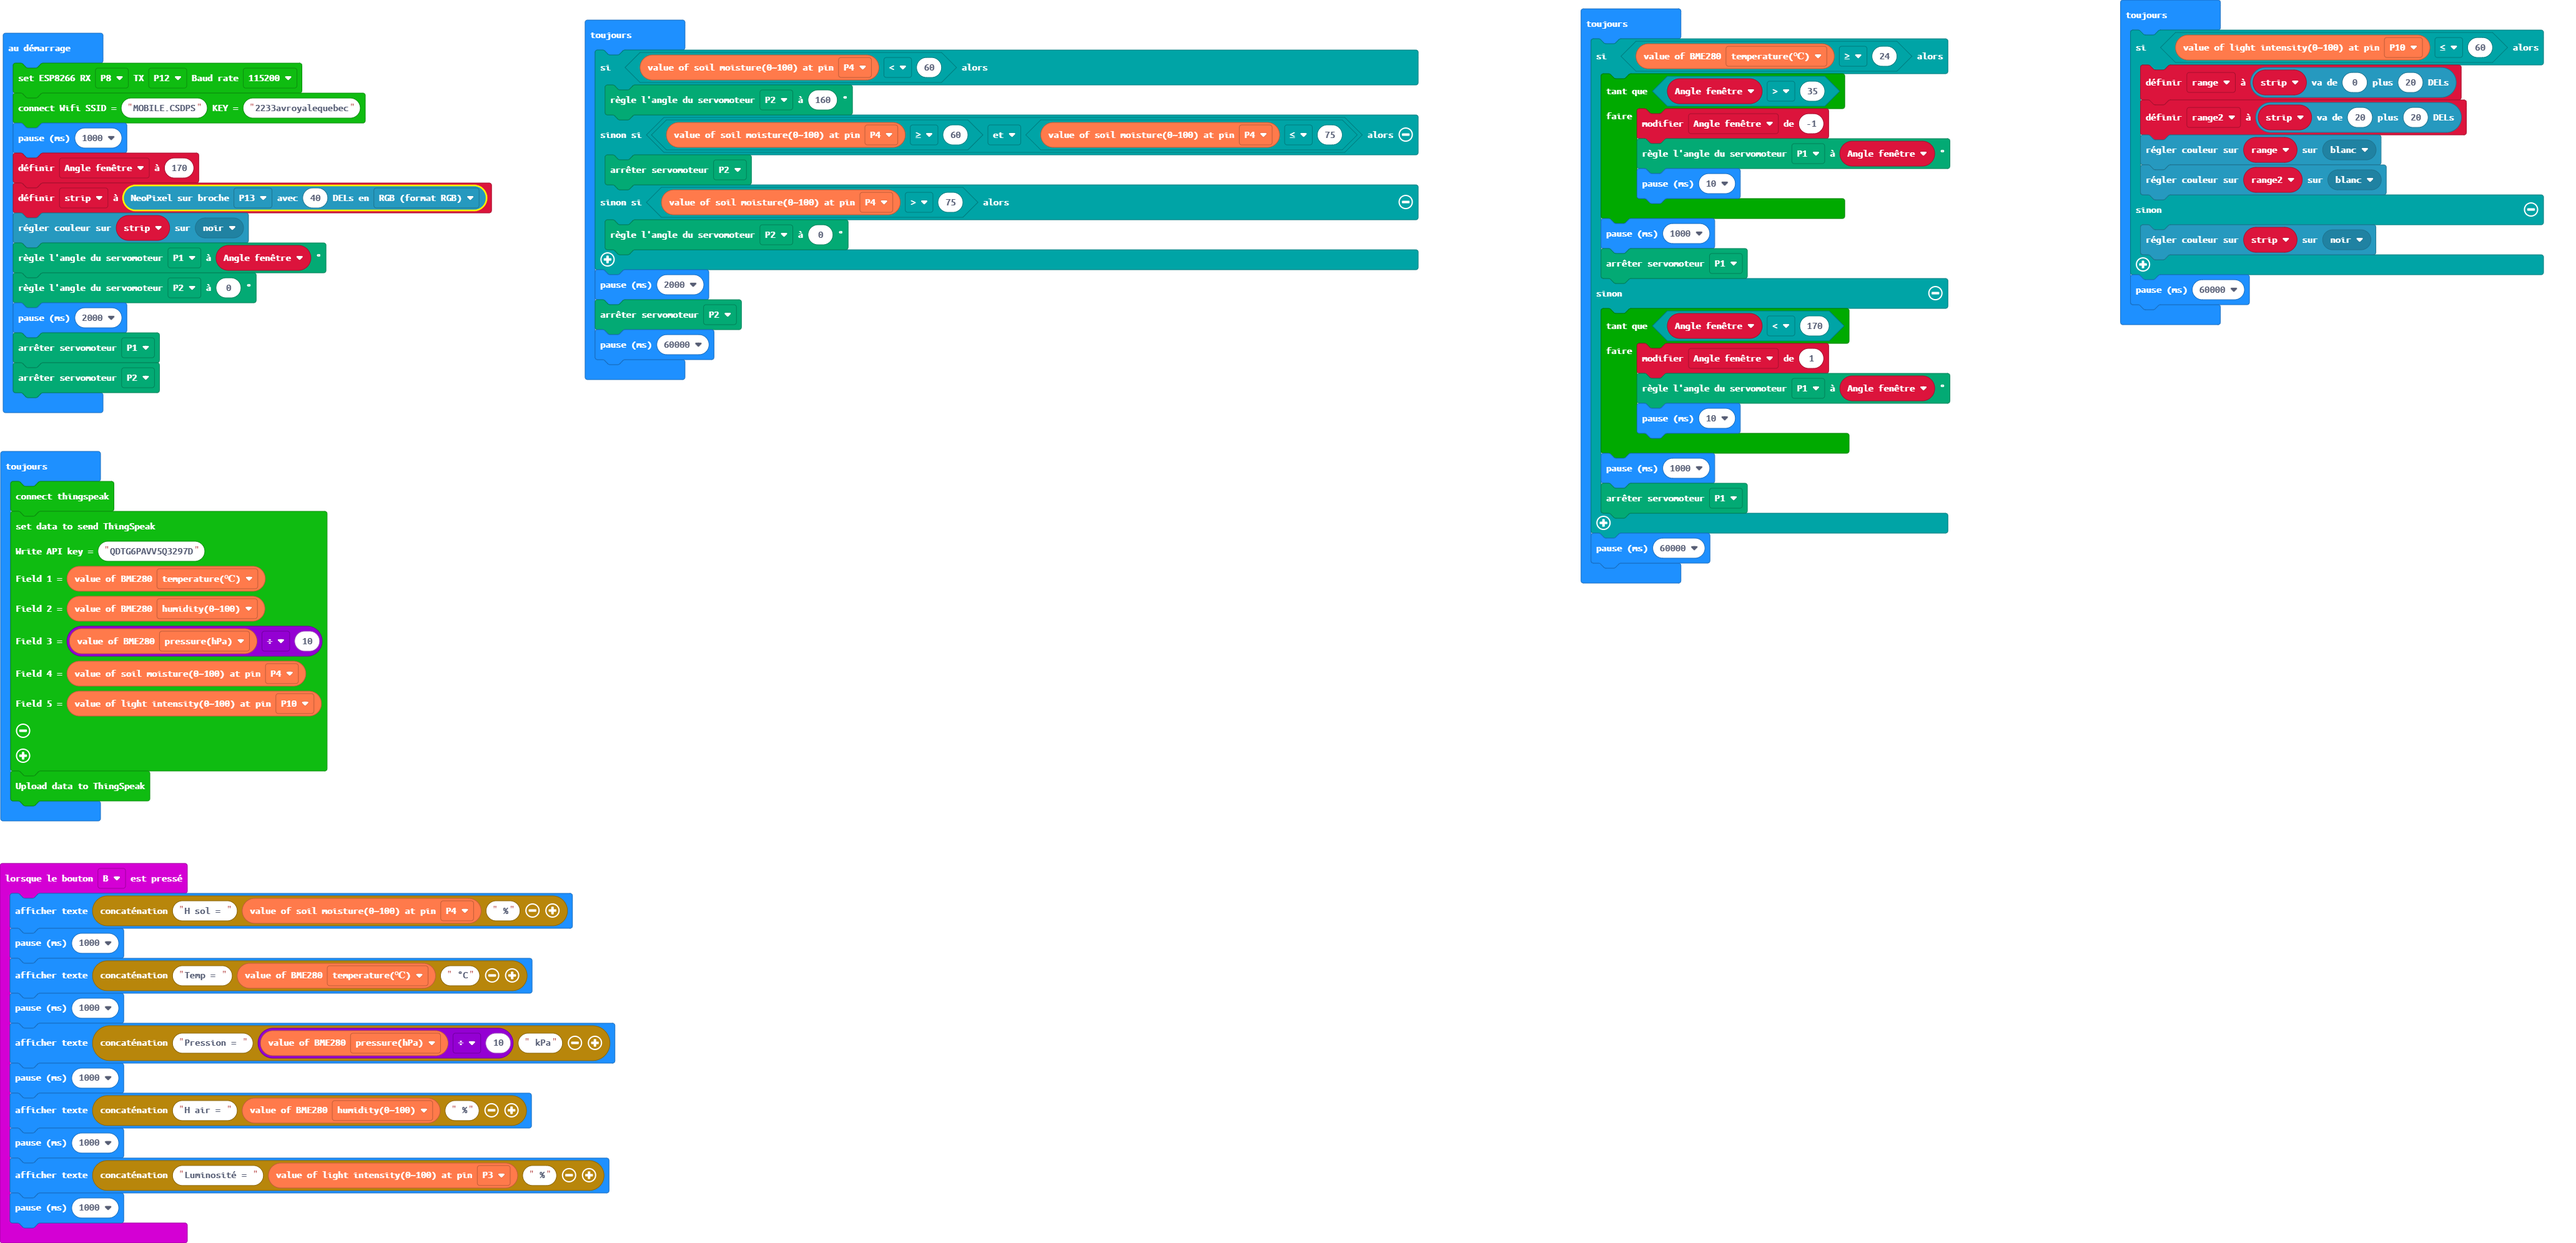
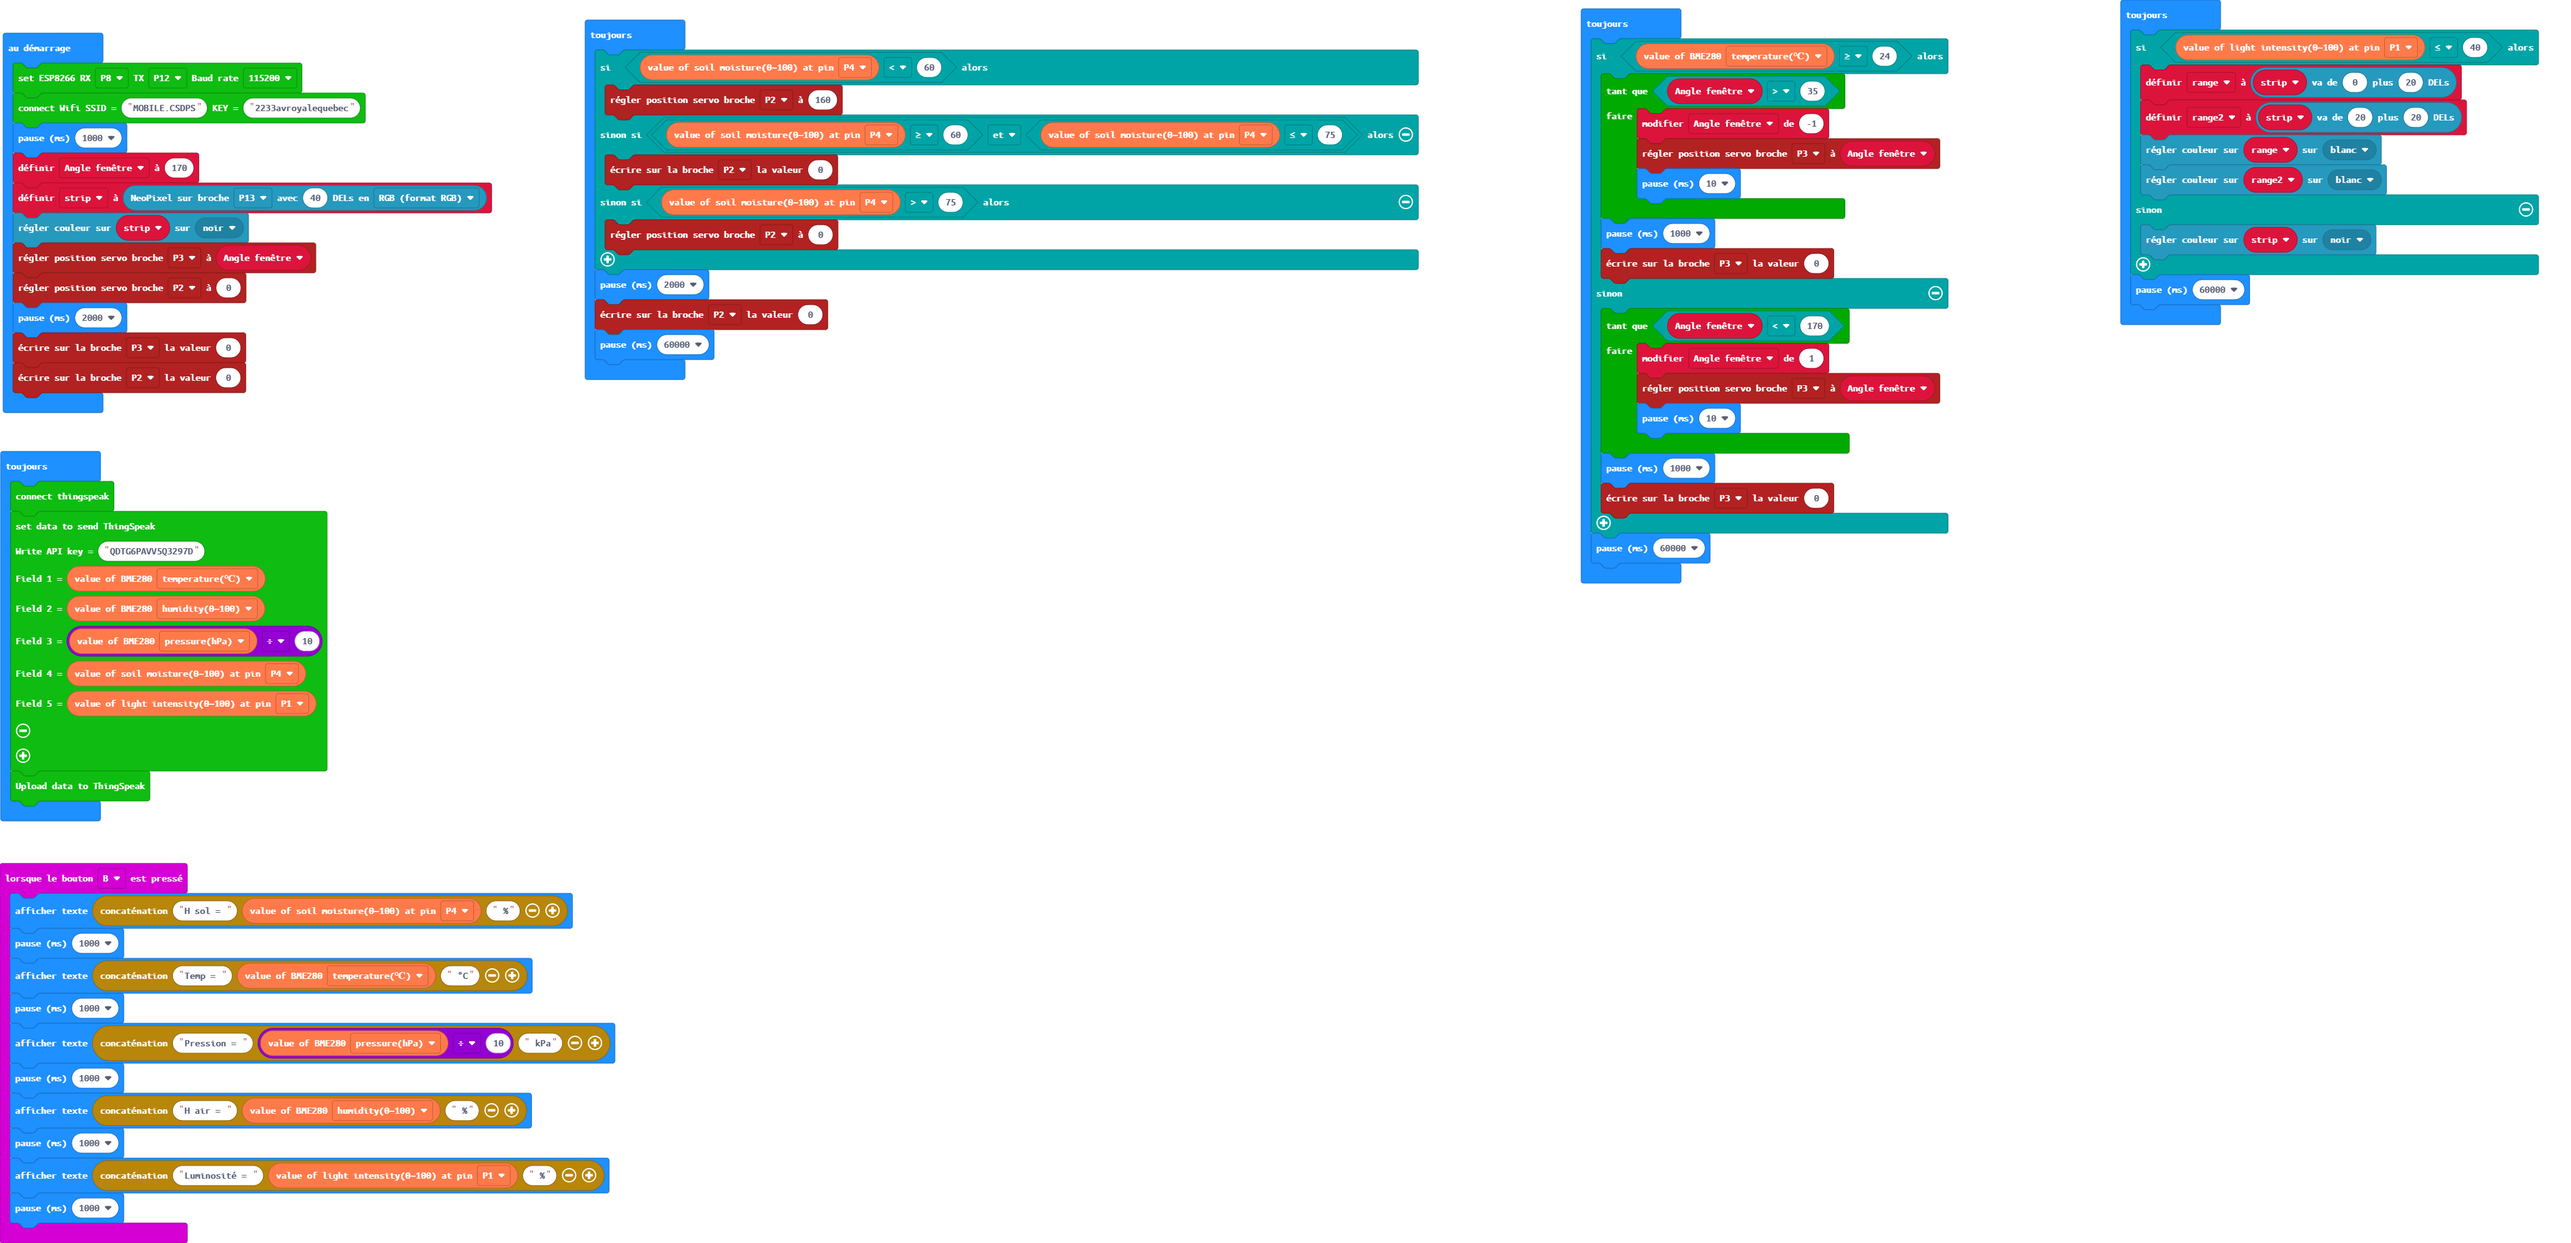
Mise à jour main.blocks, main.ts

diff --git a/main.ts b/main.ts
@@ -7,7 +7,7 @@ input.onButtonPressed(Button.B, function () {
     basic.pause(1000)
     basic.showString("H air = " + Environment.octopus_BME280(Environment.BME280_state.BME280_humidity) + " %")
     basic.pause(1000)
-    basic.showString("Luminosité = " + Environment.ReadLightIntensity(AnalogPin.P3) + " %")
+    basic.showString("Luminosité = " + Environment.ReadLightIntensity(AnalogPin.P1) + " %")
     basic.pause(1000)
 })
 let range2: neopixel.Strip = null
@@ -18,45 +18,45 @@ basic.pause(1000)
 let Angle_fenêtre = 170
 let strip = neopixel.create(DigitalPin.P13, 40, NeoPixelMode.RGB)
 strip.showColor(neopixel.colors(NeoPixelColors.Black))
-servos.P1.setAngle(Angle_fenêtre)
-servos.P2.setAngle(0)
+pins.servoWritePin(AnalogPin.P3, Angle_fenêtre)
+pins.servoWritePin(AnalogPin.P2, 0)
 basic.pause(2000)
-servos.P1.stop()
-servos.P2.stop()
+pins.digitalWritePin(DigitalPin.P3, 0)
+pins.digitalWritePin(DigitalPin.P2, 0)
 basic.forever(function () {
     if (Environment.ReadSoilHumidity(AnalogPin.P4) < 60) {
-        servos.P2.setAngle(160)
+        pins.servoWritePin(AnalogPin.P2, 160)
     } else if (Environment.ReadSoilHumidity(AnalogPin.P4) >= 60 && Environment.ReadSoilHumidity(AnalogPin.P4) <= 75) {
-        servos.P2.stop()
+        pins.digitalWritePin(DigitalPin.P2, 0)
     } else if (Environment.ReadSoilHumidity(AnalogPin.P4) > 75) {
-        servos.P2.setAngle(0)
+        pins.servoWritePin(AnalogPin.P2, 0)
     }
     basic.pause(2000)
-    servos.P2.stop()
+    pins.digitalWritePin(DigitalPin.P2, 0)
     basic.pause(60000)
 })
 basic.forever(function () {
     if (Environment.octopus_BME280(Environment.BME280_state.BME280_temperature_C) >= 24) {
         while (Angle_fenêtre > 35) {
             Angle_fenêtre += -1
-            servos.P1.setAngle(Angle_fenêtre)
+            pins.servoWritePin(AnalogPin.P3, Angle_fenêtre)
             basic.pause(10)
         }
         basic.pause(1000)
-        servos.P1.stop()
+        pins.digitalWritePin(DigitalPin.P3, 0)
     } else {
         while (Angle_fenêtre < 170) {
             Angle_fenêtre += 1
-            servos.P1.setAngle(Angle_fenêtre)
+            pins.servoWritePin(AnalogPin.P3, Angle_fenêtre)
             basic.pause(10)
         }
         basic.pause(1000)
-        servos.P1.stop()
+        pins.digitalWritePin(DigitalPin.P3, 0)
     }
     basic.pause(60000)
 })
 basic.forever(function () {
-    if (Environment.ReadLightIntensity(AnalogPin.P10) <= 60) {
+    if (Environment.ReadLightIntensity(AnalogPin.P1) <= 40) {
         range = strip.range(0, 20)
         range2 = strip.range(20, 20)
         range.showColor(neopixel.colors(NeoPixelColors.White))
@@ -74,7 +74,7 @@ basic.forever(function () {
     Environment.octopus_BME280(Environment.BME280_state.BME280_humidity),
     Environment.octopus_BME280(Environment.BME280_state.BME280_pressure) / 10,
     Environment.ReadSoilHumidity(AnalogPin.P4),
-    Environment.ReadLightIntensity(AnalogPin.P10)
+    Environment.ReadLightIntensity(AnalogPin.P1)
     )
     ESP8266_IoT.uploadData()
 })
